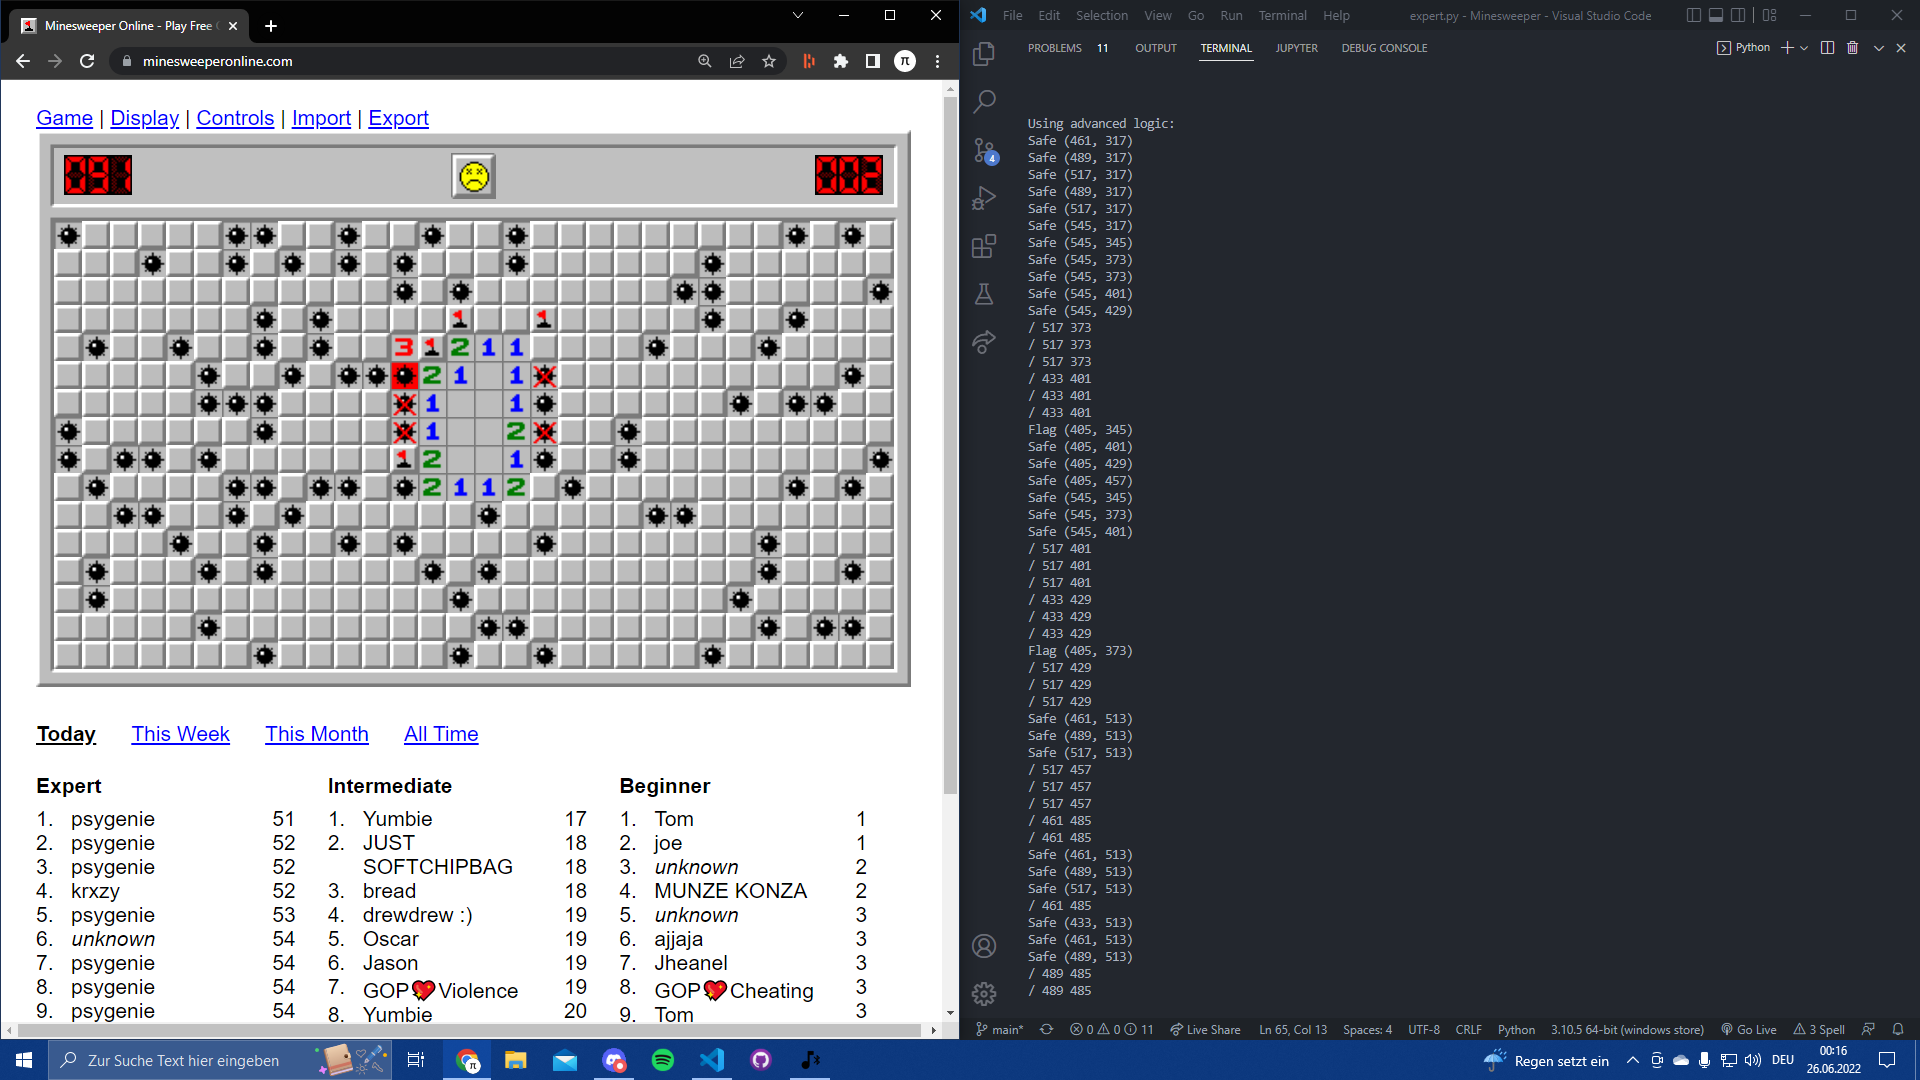
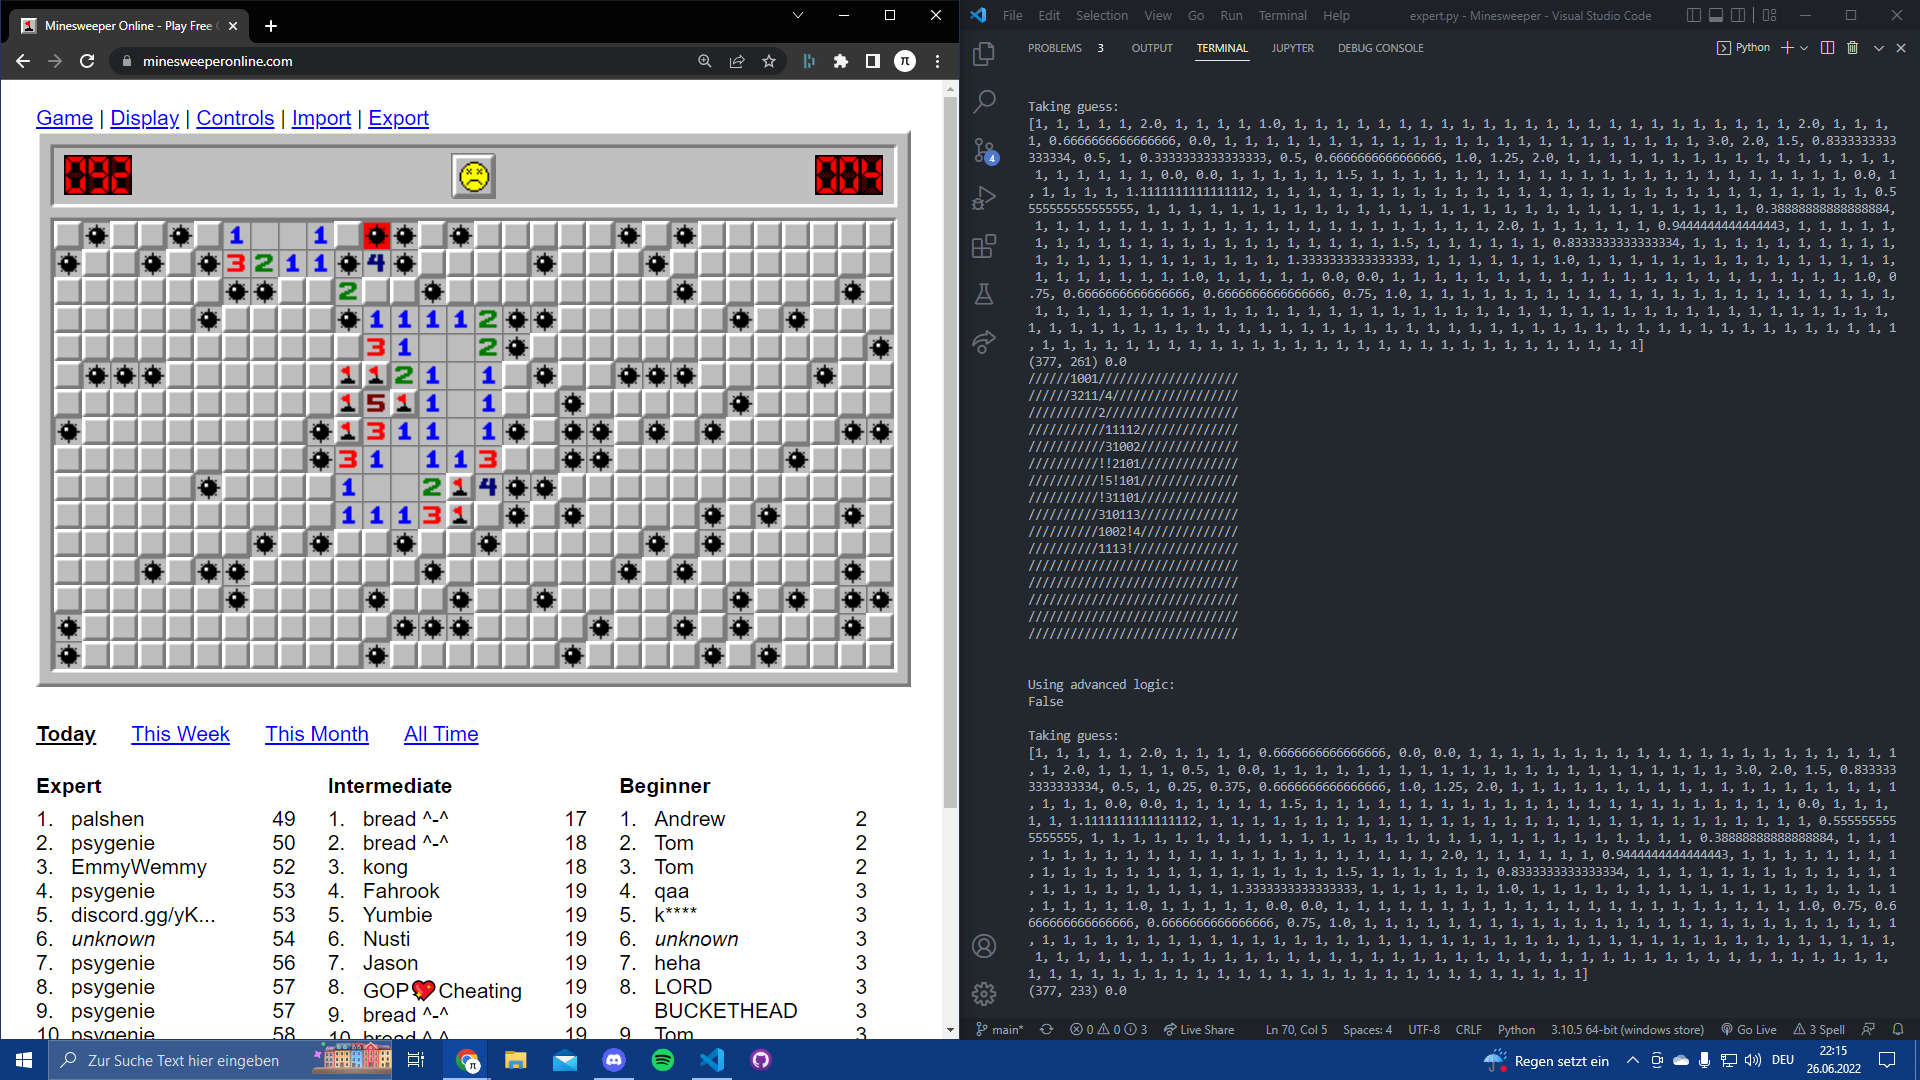
Update

diff --git a/functions.py b/functions.py
@@ -171,63 +171,63 @@ def advanced_logic(x_pos, y_pos, known, empties, flags, ones, twos, threes, four
     print("Using advanced logic:")
     made_guess = False
     for y in y_pos:
-        for x in x_pos:
-            if (x, y) in known and not (x, y) in flags and not (x, y) in empties:
-                field_neighbors = neighbors(x, x_pos, y, y_pos)
-                num_of_used_flags = 0
-                empty_neighbors = []
-                known_neighbors = []
-                for n in field_neighbors:
-                    if n in flags:
-                        num_of_used_flags += 1
-                    elif n in empties:
-                        empty_neighbors.append(n)
-                    else:
-                        known_neighbors.append(n)
-                num_of_empty_neighbors = len(empty_neighbors)
-                try:
-                    num_of_flags = int(type(x, y, known, ones, twos, threes, fours, fives, sixes, sevens, eights, empties, flags))
-                except ValueError:
-                    print(type(x, y, known, ones, twos, threes, fours, fives, sixes, sevens, eights, empties, flags), x, y)
-                    num_of_flags = 11
-                num_of_needed_flags = num_of_flags - num_of_used_flags
-                if num_of_empty_neighbors > num_of_needed_flags:
-                    for n in known_neighbors:
-                        neighbor_neighbors = neighbors(n[0], x_pos, n[1], y_pos)
-                        num_of_used_neighbor_flags = 0
-                        for N in neighbor_neighbors:
-                            if N in flags:
-                                num_of_used_neighbor_flags += 1
-                        try:
-                            num_of_neighbor_flags = int(type(n[0], n[1], known, ones, twos, threes, fours, fives, sixes, sevens, eights, empties, flags))
-                        except ValueError:
-                            print(type(n[0], n[1], known, ones, twos, threes, fours, fives, sixes, sevens, eights, empties, flags), x, y)
-                            num_of_neighbor_flags = 11
-                        num_of_needed_neighbor_flags = num_of_neighbor_flags - num_of_used_neighbor_flags
-                        empty_neighbors_of_neighbors = empty_neighbors_of_field(neighbor_neighbors, known)
-                        break_loop = False
-                        common_neighbors = []
-                        for N in field_neighbors:
-                            if not N in empty_neighbors_of_neighbors:
-                                break_loop = True
-                                break
+        if not made_guess:
+            for x in x_pos:
+                if not made_guess:
+                    if (x, y) in known and not (x, y) in flags and not (x, y) in empties:
+                        field_neighbors = neighbors(x, x_pos, y, y_pos)
+                        num_of_used_flags = 0
+                        empty_neighbors = []
+                        known_neighbors = []
+                        for n in field_neighbors:
+                            if n in flags:
+                                num_of_used_flags += 1
+                            elif n in empties:
+                                empty_neighbors.append(n)
                             else:
-                                common_neighbors.append(N)
-                        new_neighbors = []
-                        for N in empty_neighbors_of_neighbors:
-                            if not N in common_neighbors:
-                                new_neighbors.append(N)
-                        if break_loop:
-                            if len(new_neighbors) == num_of_needed_neighbor_flags:
-                                for N in new_neighbors:
-                                    rightClick(N[0], N[1])
-                                    print("Flag", N)
-                                    made_guess = True
-                            elif num_of_needed_flags == num_of_needed_neighbor_flags:
-                                for N in new_neighbors:
-                                    leftClick(N[0], N[1])
-                                    print("Safe", N)
-                                    made_guess = True
+                                known_neighbors.append(n)
+                        num_of_empty_neighbors = len(empty_neighbors)
+                        num_of_flags = int(type(x, y, known, ones, twos, threes, fours, fives, sixes, sevens, eights, empties, flags))
+                        num_of_needed_flags = num_of_flags - num_of_used_flags
+                        if num_of_empty_neighbors > num_of_needed_flags:
+                            for n in known_neighbors:
+                                if not made_guess:
+                                    neighbor_neighbors = neighbors(n[0], x_pos, n[1], y_pos)
+                                    num_of_used_neighbor_flags = 0
+                                    for N in neighbor_neighbors:
+                                        if N in flags:
+                                            num_of_used_neighbor_flags += 1
+                                    try:
+                                        num_of_neighbor_flags = int(type(n[0], n[1], known, ones, twos, threes, fours, fives, sixes, sevens, eights, empties, flags))
+                                    except ValueError:
+                                        num_of_neighbor_flags = 11
+                                    num_of_needed_neighbor_flags = num_of_neighbor_flags - num_of_used_neighbor_flags
+                                    empty_neighbors_of_neighbors = empty_neighbors_of_field(neighbor_neighbors, known)
+                                    break_loop = False
+                                    common_neighbors = []
+                                    for N in field_neighbors:
+                                        if not N in empty_neighbors_of_neighbors:
+                                            break_loop = True
+                                            break
+                                        else:
+                                            common_neighbors.append(N)
+                                    new_neighbors = []
+                                    for N in empty_neighbors_of_neighbors:
+                                        if not N in common_neighbors:
+                                            new_neighbors.append(N)
+                                    if not break_loop:
+                                        if len(new_neighbors) == num_of_needed_neighbor_flags:
+                                            for N in new_neighbors:
+                                                rightClick(N[0], N[1])
+                                                print("Flag", (x_pos.index(N[0]), y_pos.index(N[1])))
+                                                made_guess = True
+                                        elif num_of_needed_flags == num_of_needed_neighbor_flags:
+                                            for N in new_neighbors:
+                                                leftClick(N[0], N[1])
+                                                print("Safe", (x_pos.index(N[0]), y_pos.index(N[1])))
+                                                made_guess = True
+    print(made_guess)
+    print("")
     return made_guess
 
 def guess(x_pos, y_pos, known, empties, flags, ones, twos, threes, fours, fives, sixes, sevens, eights):

diff --git a/expert.py b/expert.py
@@ -63,6 +63,8 @@ while True:
         if not made_guess:
             guess = f.guess(x_pos, y_pos, known, empties, flags, ones, twos, threes, fours, fives, sixes, sevens, eights)
             f.leftClick(guess[0], guess[1])
+        else:
+            break
     if keyboard.is_pressed('q'):
         break
     
